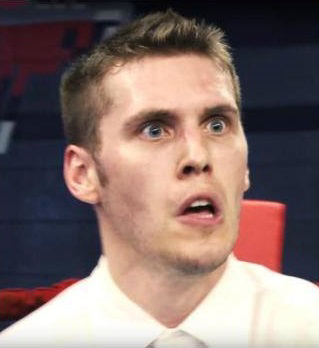
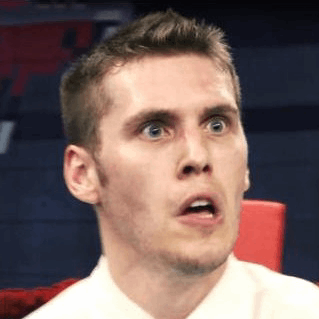
Added more testimonials
Edited jerma pic

diff --git a/index.css b/index.css
@@ -1,4 +1,4 @@
-/***** index.html CSS *****/
+/***** index.php CSS *****/
 @font-face {
   font-family: "ETH";
   src: url("fonts/eth/ETH.ttf");
@@ -36,7 +36,7 @@ a:active{
 #header {
   font-family: "ETH";
   color: white !important;
-  font-size: 35pt;
+  font-size: 40pt;
   text-align: center;
 }
 
@@ -172,7 +172,7 @@ a:active{
 }
 
 
-/********** tutorials.html CSS **********/
+/********** tutorials.php CSS **********/
 #header {
   font-family: "ETH";
   color: black;
@@ -223,7 +223,7 @@ a:active{
 
 }
 
-/********** testimonials.html CSS **********/
+/********** testimonials.php CSS **********/
 #header {
   font-family: "ETH";
   color: black;
@@ -254,7 +254,7 @@ a:active{
   padding-right: 10px;
   width: 100px;
   height: 100px;
-  border-radius: 20px;
+  border-radius: 30px;
 
 }
 
@@ -285,4 +285,25 @@ a:active{
 	margin-left: auto;
 	margin-right: auto;
 
+}
+
+/********** signin.php CSS **********/
+.signinForm {
+  display: block;
+  margin-top: 50px;
+  margin-left: auto;
+  margin-right: auto;
+  width: 800px;
+  position: relative;
+  overflow: hidden;
+  align-items: center;
+  transition-duration: 0.7s;
+}
+
+.signinAbout span {
+  display: block;
+  text-align: left;
+  font-family: "Josefin Sans";
+  font-size: 11.5pt;
+  color: #E8DFDC;
 }

diff --git a/testimonials.php b/testimonials.php
@@ -30,7 +30,7 @@
 	?>
 
     <h1 id="header"> <b> Testimonials </b> </h1>
-    <p id="headerDesc"> Testimonials from users like you! </p>
+    <p id="headerDesc"> Songs of praise from users like you! </p>
 
     <div class="flexContainer">
       <div id="infoBox">
@@ -70,6 +70,62 @@
 
 			<p>
         <img id="jerma" src="images/Jerma.png" alt="jerma"/>
+				<span>
+          &nbsp;&nbsp;&nbsp;&nbsp;Lorem ipsum dolor sit amet, tota deserunt voluptatibus
+					nam no. Ad mei oportere complectitur, est semper regione ea, cu his labore
+					 tacimates maiestatis. No vide mollis sea, ne has elit eligendi explicari.
+					 Est phaedrum quaerendum ei, solet vulputate ex ius, qui blandit perfecto
+					 consetetur et. Et modo stet facete mei, suas affert legere ne usu. Has eu
+					 sint instructior. Labore aliquip sed ea. Id mollis euismod invenire sit,
+					 semper aperiam ad usu. Duo unum impedit legendos ad, vel impetus molestiae
+					 in. Eos consetetur disputando ut, in nibh mazim conceptam qui.
+        </span>
+      </p>
+
+			<p>
+        <img id="ninja" src="images/Ninja.png" alt="ninja"/>
+				<span>
+          &nbsp;&nbsp;&nbsp;&nbsp;Lorem ipsum dolor sit amet, tota deserunt voluptatibus
+					nam no. Ad mei oportere complectitur, est semper regione ea, cu his labore
+					 tacimates maiestatis. No vide mollis sea, ne has elit eligendi explicari.
+					 Est phaedrum quaerendum ei, solet vulputate ex ius, qui blandit perfecto
+					 consetetur et. Et modo stet facete mei, suas affert legere ne usu. Has eu
+					 sint instructior. Labore aliquip sed ea. Id mollis euismod invenire sit,
+					 semper aperiam ad usu. Duo unum impedit legendos ad, vel impetus molestiae
+					 in. Eos consetetur disputando ut, in nibh mazim conceptam qui.
+        </span>
+      </p>
+
+			<p>
+        <img id="overwatch" src="images/Overwatch.png" alt="overwatch"/>
+				<span>
+          &nbsp;&nbsp;&nbsp;&nbsp;Lorem ipsum dolor sit amet, tota deserunt voluptatibus
+					nam no. Ad mei oportere complectitur, est semper regione ea, cu his labore
+					 tacimates maiestatis. No vide mollis sea, ne has elit eligendi explicari.
+					 Est phaedrum quaerendum ei, solet vulputate ex ius, qui blandit perfecto
+					 consetetur et. Et modo stet facete mei, suas affert legere ne usu. Has eu
+					 sint instructior. Labore aliquip sed ea. Id mollis euismod invenire sit,
+					 semper aperiam ad usu. Duo unum impedit legendos ad, vel impetus molestiae
+					 in. Eos consetetur disputando ut, in nibh mazim conceptam qui.
+        </span>
+      </p>
+
+			<p>
+        <img id="vsauce" src="images/VSauce.png" alt="vsauce"/>
+				<span>
+          &nbsp;&nbsp;&nbsp;&nbsp;Lorem ipsum dolor sit amet, tota deserunt voluptatibus
+					nam no. Ad mei oportere complectitur, est semper regione ea, cu his labore
+					 tacimates maiestatis. No vide mollis sea, ne has elit eligendi explicari.
+					 Est phaedrum quaerendum ei, solet vulputate ex ius, qui blandit perfecto
+					 consetetur et. Et modo stet facete mei, suas affert legere ne usu. Has eu
+					 sint instructior. Labore aliquip sed ea. Id mollis euismod invenire sit,
+					 semper aperiam ad usu. Duo unum impedit legendos ad, vel impetus molestiae
+					 in. Eos consetetur disputando ut, in nibh mazim conceptam qui.
+        </span>
+      </p>
+
+			<p>
+        <img id="kleiner" src="images/kleiner.png" alt="kleiner"/>
 				<span>
           &nbsp;&nbsp;&nbsp;&nbsp;Lorem ipsum dolor sit amet, tota deserunt voluptatibus
 					nam no. Ad mei oportere complectitur, est semper regione ea, cu his labore
